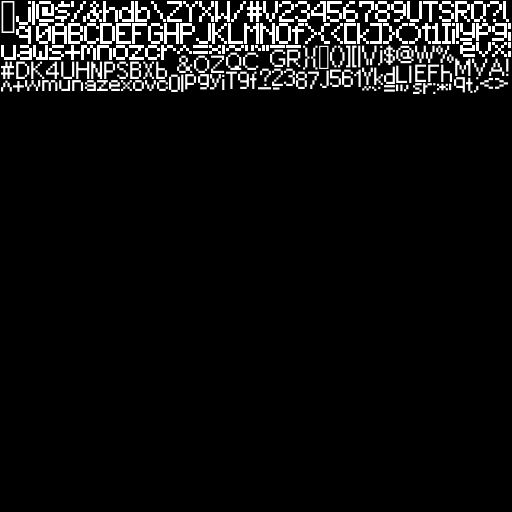
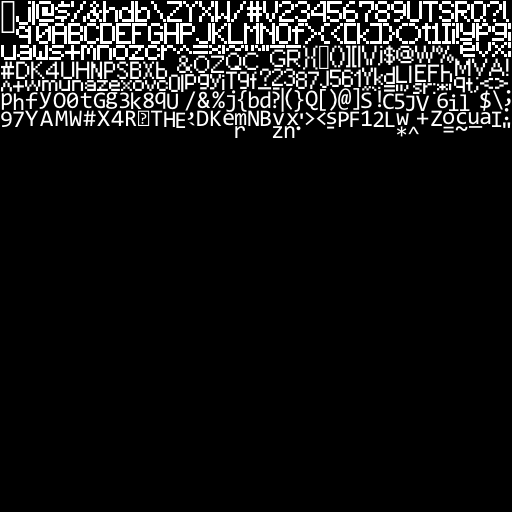
debug menu

Changed region(s): [[0.0, 0.1562, 1.0, 0.2812]]

diff --git a/src/gui/component/component.c b/src/gui/component/component.c
@@ -28,6 +28,7 @@ Component* comp_create(i16 x, i16 y, i16 w, i16 h, CompID id)
     comp_set_bbox(comp, x, y, w, h);
     comp_set_color(comp, 0, 0, 0, 255);
     comp_set_id(comp, id);
+    comp_set_visible(comp, TRUE);
     comp->children = NULL;
     comp->data = NULL;
     component_functions[comp_id(comp)][COMP_FUNC_INIT](comp);
@@ -181,6 +182,9 @@ static void initialize_functions(void)
     component_functions[COMP_TEXTBOX][COMP_FUNC_CLICK]  = comp_textbox_click;
     component_functions[COMP_TEXTBOX][COMP_FUNC_KEY]    = comp_textbox_key;
     component_functions[COMP_TEXTBOX][COMP_FUNC_UPDATE] = comp_textbox_update;
+    component_functions[COMP_DEBUG][COMP_FUNC_INIT]     = comp_debug_init;
+    component_functions[COMP_DEBUG][COMP_FUNC_KEY]      = comp_debug_key;
+    component_functions[COMP_DEBUG][COMP_FUNC_UPDATE]   = comp_debug_update;
 }
 
 // ---------------------------------------------------------------------------
@@ -190,6 +194,7 @@ static void initialize_functions(void)
 // 32 - r, g, b, a  |  1 - hoverable | 6 - font_size     |
 // 24 - x, y        |  1 - hovered   | 4 - font          |
 //                  |  1 - clickable |                   |
+//                  |  1 - visible   |                   |
 // ---------------------------------------------------------------------------
 
 #define ID_SHIFT    0
@@ -221,17 +226,19 @@ static void initialize_functions(void)
 #define HD_BITS     1
 #define CL_SHIFT    42
 #define CL_BITS     1
+#define VS_SHIFT    43
+#define VS_BITS     1
 
-#define NC_SHIFT    43
+#define NC_SHIFT    44
 #define NC_BITS     8
 
-#define HA_SHIFT    43
+#define HA_SHIFT    44
 #define HA_BITS     2
-#define VA_SHIFT    45
+#define VA_SHIFT    46
 #define VA_BITS     2
-#define FS_SHIFT    51
+#define FS_SHIFT    48
 #define FS_BITS     6
-#define FT_SHIFT    57
+#define FT_SHIFT    54
 #define FT_BITS     4
 
 #define SMASK(BITS)         ((1<<BITS)-1)
@@ -309,6 +316,9 @@ void comp_set_hovered(Component* comp, bool hd) {
 }
 void comp_set_clickable(Component* comp, bool cl) {
     comp->info2 = (comp->info2 & GMASK(CL_BITS, CL_SHIFT)) | ((u64)(cl & SMASK(CL_BITS)) << CL_SHIFT);
+}
+void comp_set_visible(Component* comp, bool vs) {
+    comp->info2 = (comp->info2 & GMASK(VS_BITS, VS_SHIFT)) | ((u64)(vs & SMASK(VS_BITS)) << VS_SHIFT);
 }
 void comp_set_tex(Component* comp, i32 tx) {
     comp->info2 = (comp->info2 & GMASK(TX_BITS, TX_SHIFT)) | ((u64)(tx & SMASK(TX_BITS)) << TX_SHIFT);
@@ -393,6 +403,9 @@ void comp_get_hovered(Component* comp, bool* hd) {
 void comp_get_clickable(Component* comp, bool* cl) {
     *cl = (comp->info2 >> CL_SHIFT) & SMASK(CL_BITS);
 }
+void comp_get_visible(Component* comp, bool* vs) {
+    *vs = (comp->info2 >> VS_SHIFT) & SMASK(VS_BITS);
+}
 void comp_get_tex(Component* comp, i32* tx) {
     *tx = (comp->info2 >> TX_SHIFT) & SMASK(TX_BITS);
 }
@@ -423,4 +436,7 @@ bool comp_is_hovered(Component* comp) {
 }
 bool comp_is_clickable(Component* comp) {
     return (comp->info2 >> CL_SHIFT) & SMASK(CL_BITS);
+}
+bool comp_is_visible(Component* comp) {
+    return (comp->info2 >> VS_SHIFT) & SMASK(VS_BITS);
 }

diff --git a/src/gui/component/component.h b/src/gui/component/component.h
@@ -22,6 +22,7 @@
 typedef enum CompID {
     COMP_DEFAULT = 0,
     COMP_TEXTBOX = 1,
+    COMP_DEBUG = 2
 } CompID;
 
 typedef struct Component Component;
@@ -60,6 +61,9 @@ void comp_textbox_click(Component* comp, i32 buttion, i32 action);
 void comp_textbox_key(Component* comp, i32 key, i32 scancode, i32 action, i32 mods);
 void comp_textbox_update(Component* comp, f64 dt);
 void comp_textbox_set_reference(Component* comp, Component* ref);
+void comp_debug_init(Component* comp);
+void comp_debug_key(Component* comp, i32 key, i32 scancode, i32 action, i32 mods);
+void comp_debug_update(Component* comp, f64 dt);
 
 // Setters for packed info
 void comp_set_id(Component* comp, CompID id);
@@ -78,13 +82,14 @@ void comp_set_valign(Component* comp, u8 va);
 void comp_set_hoverable(Component* comp, bool hv);
 void comp_set_hovered(Component* comp, bool hd);
 void comp_set_clickable(Component* comp, bool cl);
+void comp_set_visible(Component* comp, bool vs);
 void comp_set_color(Component* comp, u8 r, u8 g, u8 b, u8 a);
 void comp_set_bbox(Component* comp, i32 x, i32 y, i32 w, i32 h);
 void comp_set_position(Component* comp, i32 x, i32 y);
 void comp_set_size(Component* comp, i32 w, i32 h);
 void comp_set_align(Component* comp, u8 ha, u8 va);
 void comp_set_tex(Component* comp, i32 tx);
-void comp_set_font(Component* comp, FontID font);
+void comp_set_font(Component* comp, FontID ft);
 void comp_set_font_size(Component* comp, i32 fs);
 
 // Getters for packed info
@@ -104,13 +109,14 @@ void comp_get_valign(Component* comp, u8* va);
 void comp_get_hoverable(Component* comp, bool* hv);
 void comp_get_hovered(Component* comp, bool* hd);
 void comp_get_clickable(Component* comp, bool* cl);
+void comp_get_visible(Component* comp, bool* vs);
 void comp_get_color(Component* comp, u8* r, u8* g, u8* b, u8* a);
 void comp_get_bbox(Component* comp, i32* x, i32* y, i32* w, i32* h);
 void comp_get_position(Component* comp, i32* x, i32* y);
 void comp_get_size(Component* comp, i32* w, i32* h);
 void comp_get_align(Component* comp, u8* ha, u8* va);
 void comp_get_tex(Component* comp, i32* tx);
-void comp_get_font(Component* comp, FontID* font);
+void comp_get_font(Component* comp, FontID* ft);
 void comp_get_font_size(Component* comp, i32* fs);
 
 // Second set of getters
@@ -120,6 +126,7 @@ bool comp_is_text(Component* comp);
 bool comp_is_hoverable(Component* comp);
 bool comp_is_hovered(Component* comp);
 bool comp_is_clickable(Component* comp);
+bool comp_is_visible(Component* comp);
 
 // Used for debugging info
 void print_bits(u64 x);

diff --git a/src/gui/gui.c b/src/gui/gui.c
@@ -38,6 +38,9 @@ void gui_init(void)
     comp_set_color(gui.root, 0, 0, 0, 0);
     comp_set_hoverable(gui.root, FALSE);
 
+    Component* debug = comp_create(0, yres-75, 150, 75, COMP_DEBUG);
+    comp_attach(gui.root, debug);
+
     Component* click_me = comp_create(50, 50, 100, 100, COMP_TEXTBOX);
     comp_set_color(click_me, 0, 255, 0, 255);
     comp_set_align(click_me, ALIGN_CENTER, ALIGN_TOP);
@@ -149,10 +152,7 @@ static void update_components(f64 dt)
 
 static void update_data_text(Component* comp)
 {
-    CompID id;
-    comp_get_id(comp, &id);
-
-    if (id != COMP_TEXTBOX)
+    if (!comp_is_text(comp))
         return;
 
     if (comp->text == NULL)
@@ -306,6 +306,9 @@ static void update_data_text(Component* comp)
 
 static void update_data_helper(Component* comp)
 {
+    if (!comp_is_visible(comp)) 
+        return;
+    
     i32 cx, cy, cw, ch;
     u8  cr, cg, cb, ca;
     f32 x1, y1, x2, y2, r, g, b, a;
@@ -324,9 +327,7 @@ static void update_data_helper(Component* comp)
     A = x2, A = y1, A = 1.0, A = 1.0, A = r, A = g, A = b, A = a, A = TEX_COLOR;
     B = idx, B = idx + 1, B = idx + 2, B = idx, B = idx + 2, B = idx + 3;
 
-    if (comp_id(comp) == COMP_TEXTBOX)
-        update_data_text(comp);
-
+    update_data_text(comp);
     for (i32 i = 0; i < comp_num_children(comp); i++)
         update_data_helper(comp->children[i]);
 }

diff --git a/src/gui/component/components/debug.c b/src/gui/component/components/debug.c
@@ -1,0 +1,54 @@
+#include "../component.h"
+#include "../../../renderer/renderer.h"
+#include "../../../window/window.h"
+#include "../../../game/game.h"
+#include <glfw.h>
+#include <stdio.h>
+#include <stdlib.h>
+
+typedef struct {
+    f32 timer;
+} Data;
+
+static Data* data_create(void)
+{
+    Data* data = malloc(sizeof(Data));
+    data->timer = 0;
+    return data;
+}
+
+
+static void toggle_visibility(Component* comp)
+{
+    comp_set_visible(comp, 1 - comp_is_visible(comp));
+}
+
+void comp_debug_init(Component* comp)
+{
+    comp_set_is_text(comp, TRUE);
+    comp_set_font(comp, FONT_MONOSPACE);
+    comp_set_halign(comp, ALIGN_LEFT);
+    comp_set_valign(comp, ALIGN_TOP);
+    comp_set_font_size(comp, 16);
+    comp_set_color(comp, 255, 255, 255, 100);
+    comp->data = data_create();
+}
+
+void comp_debug_key(Component* comp, i32 key, i32 scancode, i32 action, i32 mods)
+{
+    if (key == GLFW_KEY_F3 && action == GLFW_PRESS) {
+        toggle_visibility(comp);
+    }
+}
+
+void comp_debug_update(Component* comp, f64 dt)
+{
+    Data* data = comp->data;
+    data->timer -= dt;
+    if (data->timer > 0) return;
+    
+    char str[150];
+    sprintf(str, "Window: %5.3f\nRender: %5.3f\nGame:   %5.3f\n", 1000 * window_dt(), 1000 * renderer_dt(), 1000 * game_dt());
+    comp_set_text(comp, str);
+    data->timer += 0.2;
+}

diff --git a/src/renderer/renderer.c b/src/renderer/renderer.c
@@ -1,4 +1,5 @@
 #include "renderer.h"
+#include "../util.h"
 #include "vao/vao.h"
 #include "shader/shader.h"
 #include "texture/texture.h"
@@ -12,6 +13,7 @@ typedef struct {
     SSBO ssbos[NUM_SSBOS];
     Shader shaders[NUM_SHADERS];
     Texture textures[NUM_TEXTURES];
+    f64 dt;
 } Renderer;
 
 static Renderer renderer;
@@ -22,6 +24,8 @@ static void set_texture_ssbo();
 
 void renderer_init(void)
 {
+    renderer.dt = 0;
+
     glEnable(GL_DEBUG_OUTPUT);
     glDebugMessageCallback(message_callback, 0);
     glEnable(GL_BLEND);
@@ -59,11 +63,15 @@ void renderer_update(VAOID vao_index, u32 vbo_offset, u32 vbo_length, f32* vbo_b
 
 void renderer_render(void)
 {
+    f64 start = get_time();
+
     glClearColor(0.7f, 0.7f, 0.7f, 1.0f);
     glClear(GL_COLOR_BUFFER_BIT);
 
     shader_use(renderer.shaders[SHADER_DEFAULT]);
     vao_draw(renderer.vaos[VAO_GUI]);
+
+    renderer.dt = get_time() - start;
 }
 
 void renderer_destroy(void)
@@ -77,6 +85,11 @@ void renderer_destroy(void)
         vao_destroy(renderer.vaos[i]);
     for (i = 0; i < NUM_TEXTURES; i++)
         texture_destroy(renderer.textures[i]);
+}
+
+f64 renderer_dt(void)
+{
+    return renderer.dt;
 }
 
 void renderer_create_font_bitmap(i32 width, i32 height, unsigned char* pixels)

diff --git a/src/game/game.c b/src/game/game.c
@@ -5,7 +5,7 @@
 #include <semaphore.h>
 
 typedef struct {
-    f64 dt, last;
+    f64 dt;
 } Game;
 
 static Game game;
@@ -16,10 +16,11 @@ static sem_t mutex;
 
 static void* game_update(void* vargp)
 {
+    f64 start;
     while (!kill_thread) {
-        f64 time = get_time();
-        game.dt = time - game.last;
-        game.last = time;
+        start = get_time();
+        sleep(5);
+        game.dt = get_time() - start;
     }
 }
 
@@ -36,4 +37,9 @@ void game_destroy(void)
     kill_thread = TRUE;
     pthread_join(thread_id, NULL);
     sem_destroy(&mutex);
+}
+
+f64 game_dt(void)
+{
+    return game.dt;
 }

diff --git a/src/window/window.c b/src/window/window.c
@@ -17,7 +17,7 @@ typedef struct {
         GLFWcursor* handle;
         f64 x, y;
     } cursor;
-    f64 dt, last;
+    f64 dt;
 } Window;
 
 static Window window;
@@ -53,16 +53,14 @@ void window_init(void)
     glViewport(0, 0, DEFAULT_WINDOW_WIDTH, DEFAULT_WINDOW_HEIGHT);
 
     window.dt = 0;
-    window.last = get_time();
 }
 
 void window_update(void)
 {
+    f64 start = get_time();
     glfwPollEvents();
     glfwSwapBuffers(window.handle);
-    f64 time = get_time();
-    window.dt = time - window.last;
-    window.last = time;
+    window.dt = get_time() - start;
 }
 
 void window_close(void) 

diff --git a/src/renderer/renderer.h b/src/renderer/renderer.h
@@ -23,6 +23,8 @@ void renderer_update(VAOID vao_index, u32 vbo_offset, u32 vbo_length, f32* vbo_b
 void renderer_render(void);
 void renderer_destroy(void);
 
+f64 renderer_dt(void);
+
 void renderer_create_font_bitmap(i32 width, i32 height, unsigned char* pixels);
 
 #endif

diff --git a/src/font/font.c b/src/font/font.c
@@ -49,6 +49,7 @@ static void load_fonts(void)
 {
     load_font(FONT_DEFAULT, "assets/fonts/mojangles.ttf");
     load_font(FONT_TWO, "assets/fonts/HelvetiPixel.ttf");
+    load_font(FONT_MONOSPACE, "assets/fonts/consola.ttf");
 }
 
 void font_init(void)

diff --git a/src/font/font.h b/src/font/font.h
@@ -3,11 +3,12 @@
 
 #include "../type.h"
 
-#define NUM_FONTS 2
+#define NUM_FONTS 3
 
 typedef enum {
     FONT_DEFAULT = 0,
-    FONT_TWO = 1
+    FONT_TWO = 1,
+    FONT_MONOSPACE = 2
 } FontID;
 
 void font_init(void);

diff --git a/src/game/game.h b/src/game/game.h
@@ -5,5 +5,6 @@
 
 void game_init(void);
 void game_destroy(void);
+f64  game_dt(void);
 
 #endif
